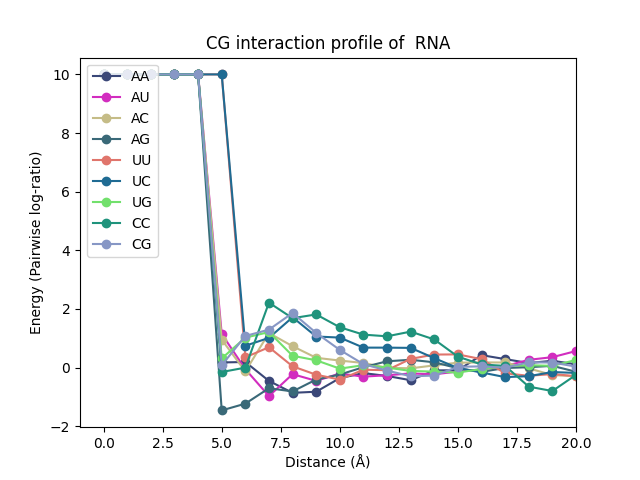
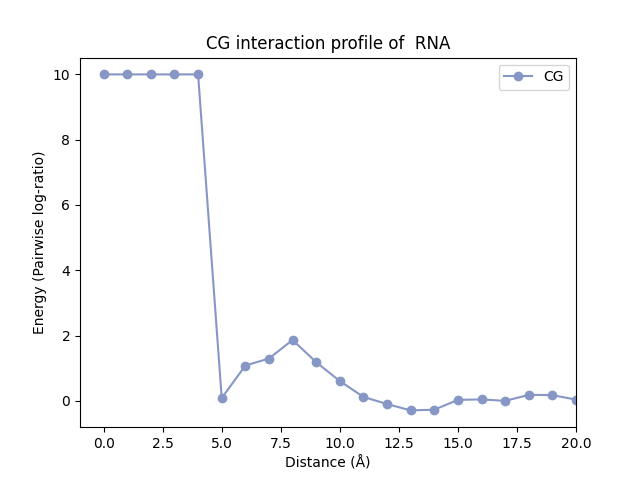
commit

diff --git a/TP_RNAScript2.py b/TP_RNAScript2.py
@@ -22,7 +22,7 @@ def main_script2(directory, save_png, print_png):
         Res = np.genfromtxt(str(directory) + '/' + i + '.txt')
         plt.plot(Res[:, 0], Res[:, 1], 'o-', color=c.hex, label=i)
 
-        plt.legend(loc='upper left')
+        plt.legend(loc='upper right')
         plt.title(i + ' interaction profile of  RNA')
         plt.xlabel('Distance (Å)')
         plt.ylabel('Energy (Pairwise log-ratio)')

diff --git a/README.md b/README.md
@@ -37,7 +37,7 @@ Total runtime : 89.4s
 ````
 
 ## 1<sup>st</sup> script : Train function
-### Explanatory notes
+### Explanatory notes :
 In first, the RNA folding problems tool will train the objective function using the 
 interatomic distance distribution from a 3D RNA structure dataset of train (`TP_RNAScript1.py`).
 
@@ -50,13 +50,13 @@ the scoring value files should be saved (e.g. : ``-output ScoringValues``).
 The third option is not mandatory, it allows to display the training time for each pdb file 
 (e.g. : ``-details False``). Default ``False``.
 
-### Run only Train function
+### Run only Train function :
 ```bash
 python3 ./TP_RNAScript1.py -input PDB -output ScoringValues -details False
 ```
 
 ## 2<sup>nd</sup> script : Plot function
-### Explanatory notes
+### Explanatory notes :
 In the second part, the scoring profile of each pair of residues will be plotted as a function of
 the interatomic distance (`TP_RNAScript2.py`).
 
@@ -69,13 +69,16 @@ Default ``False``. Save in the input folder.
 - The second one allows to display or not the plots and asks for a boolean as input (e.g. : ``-printpng True``).
 Default ``True``.
 
-### Run only Plot function
+### Run only Plot function :
 ```bash
 python3 ./TP_RNAScript2.py -input ScoringValues -savepng False -printpng True
 ```
 
+### Expected output :
+<img src="C:\Users\Anthony\PycharmProjects\TP_RNA\ScoringValues\AA.png"/>
+
 ## 3<sup>rd</sup> script : Test function
-### Explanatory notes
+### Explanatory notes :
 In the third part, we use the objective function to evaluate the predicted structures from another 
 3D RNA structure dataset of test (`TP_RNAScript3.py`).
 
@@ -85,13 +88,13 @@ been saved by the script 1  (e.g. : `-train ScoringValues`).
 The second required option will be the name of the pdb file that contains the 3D structure 
 of the test dataset (e.g. : `-test 4gxy.pdb`)
 
-### Run only Test function
+### Run only Test function :
 ```bash
 python3 ./TP_RNAScript3.py -train ScoringValues -test 4gxy.pdb
 ```
 
 ## Main script : All functions
-### Explanatory notes
+### Explanatory notes :
 This is the main script that will run the 3 functions (train, plot and test) with a 
 single command (`TP_RNA_main.py`).
 
@@ -112,7 +115,7 @@ Default ``False``. Save in the input folder.
 - The third one allows to display or not the plots and asks for a boolean as input (e.g. : ``-printpng True``).
 Default ``True``.
 
-### Run all functions
+### Run all functions :
 ```bash
 python3 ./TP_RNA_main.py -input PDB -output ScoringValues -details False -savepng False -printpng True -test 4gxy.pdb
 ```
@@ -157,4 +160,7 @@ function (`pair_res_format()`) shared by script 1 and 3.
 - ``import numpy as np``
 - ``import matplotlib.pyplot as plt``
 - ``from colorhash import ColorHash``
+
+# Author
+PRAGASSAM Anthony
 
